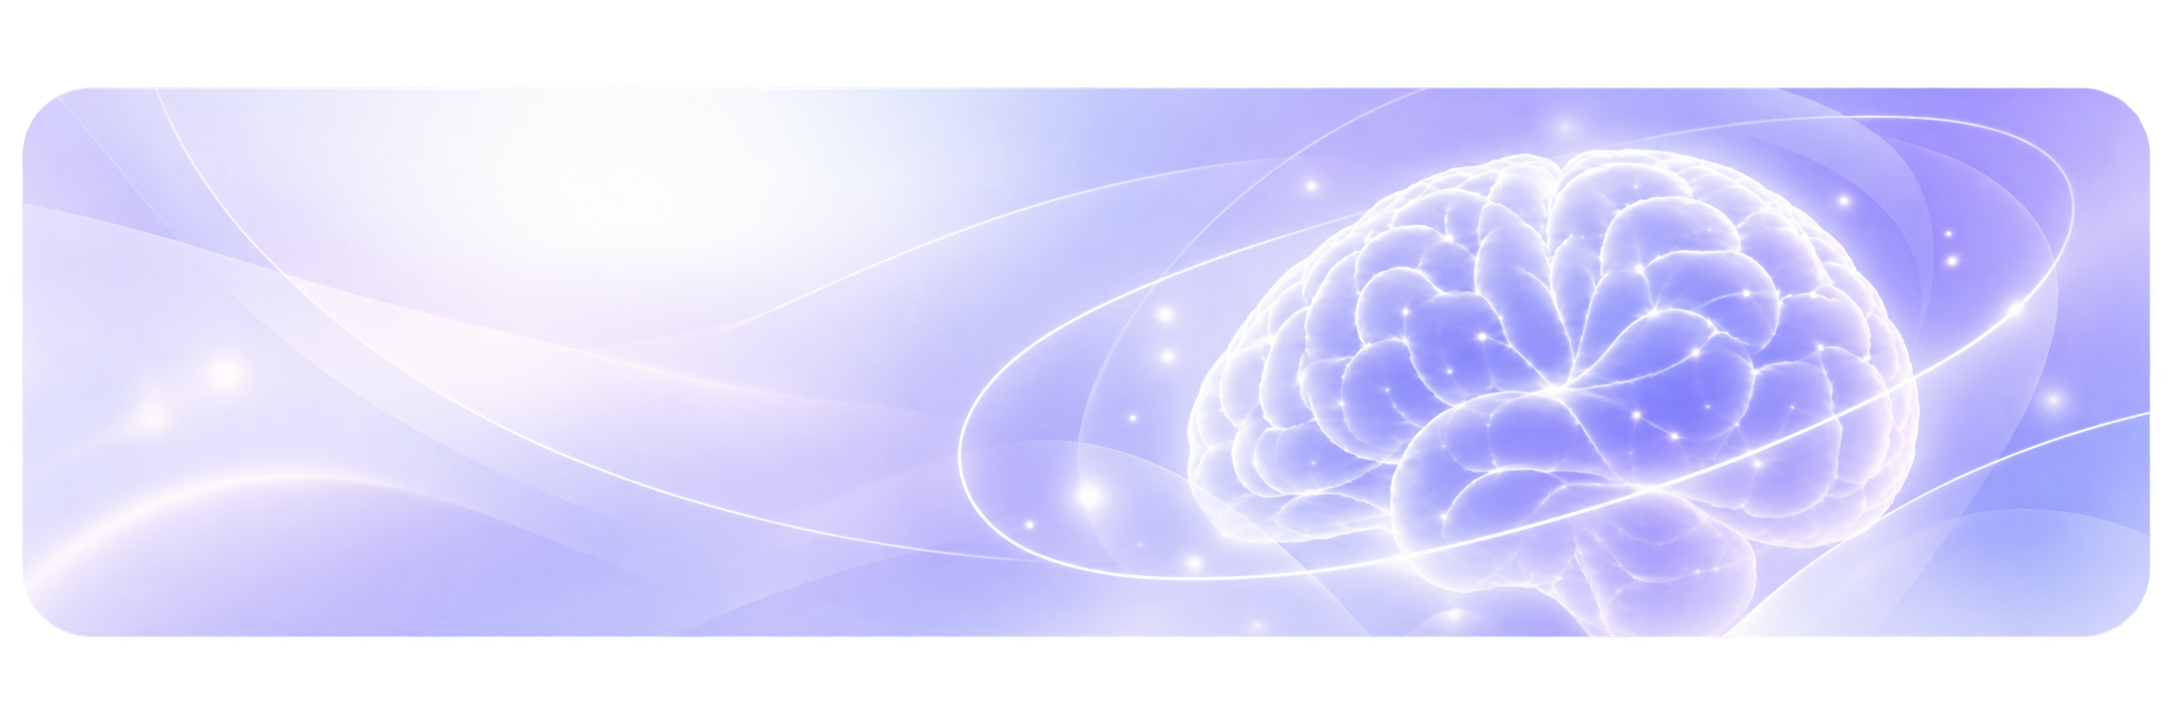
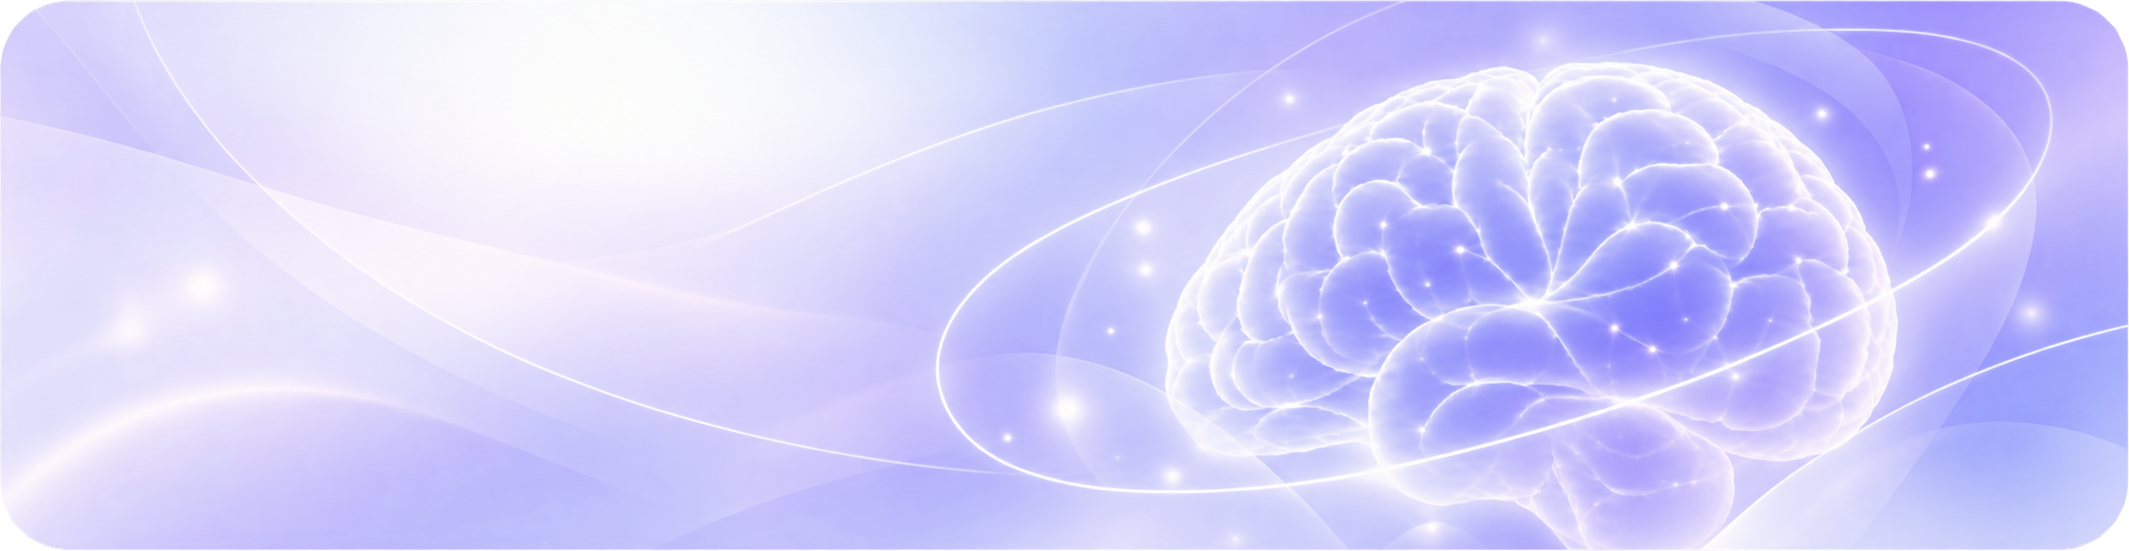
spreelo-144.218-GROW-BRAIN-STUDIO-POLISH

diff --git a/app/styles/145-v144-218-grow-brain-studio-surface.css b/app/styles/145-v144-218-grow-brain-studio-surface.css
@@ -1,0 +1,320 @@
+/* Spreelo v144.218 — Grow Brain studio-surface polish
+   Brings Grow Brain into the same visual family as AI Innehållsstudio:
+   magic canvas, translucent glass cards, softer depth, cleaner learning panel,
+   and a hero artwork that reaches the full rounded edge. */
+
+/* Canvas ------------------------------------------------------------------ */
+html body .content.spreelo-content:has(.grow-v215-page){
+  position:relative!important;
+  overflow-x:hidden!important;
+  background-color:#f5f7fb!important;
+  background-image:none!important;
+}
+html body .grow-v215-page{
+  position:relative!important;
+  isolation:isolate!important;
+  background:transparent!important;
+}
+html body .grow-v215-page::before{
+  content:"";
+  position:absolute;
+  z-index:-2;
+  top:-34px;
+  left:50%;
+  width:100vw;
+  min-width:100vw;
+  height:1180px;
+  transform:translateX(-50%);
+  pointer-events:none;
+  background:
+    linear-gradient(180deg,rgba(245,247,251,.02) 0%,rgba(245,247,251,.10) 66%,#f5f7fb 100%),
+    url('/backgrounds/spreelo-background-v97.png') center top / cover no-repeat;
+  opacity:.96;
+}
+html body .grow-v215-page::after{
+  content:"";
+  position:absolute;
+  z-index:-1;
+  top:720px;
+  left:50%;
+  width:100vw;
+  height:780px;
+  transform:translateX(-50%);
+  pointer-events:none;
+  background:
+    radial-gradient(circle at 83% 14%,rgba(129,99,230,.075),transparent 30%),
+    radial-gradient(circle at 14% 34%,rgba(255,143,99,.075),transparent 31%),
+    linear-gradient(180deg,rgba(245,247,251,0),#f5f7fb 72%);
+}
+
+/* Hero -------------------------------------------------------------------- */
+html body .grow-v216-hero{
+  overflow:hidden!important;
+  border:1px solid rgba(190,203,224,.44)!important;
+  border-radius:24px!important;
+  background-color:#f3f0ff!important;
+  background-image:
+    linear-gradient(90deg,rgba(255,255,255,.34) 0%,rgba(255,255,255,.10) 46%,rgba(255,255,255,0) 68%),
+    url('/grow-brain/grow-brain-hero-bg.png')!important;
+  background-repeat:no-repeat,no-repeat!important;
+  background-position:center,center!important;
+  background-size:100% 100%,cover!important;
+  background-origin:border-box!important;
+  background-clip:border-box!important;
+  box-shadow:0 18px 42px rgba(35,50,79,.075),inset 0 1px 0 rgba(255,255,255,.72)!important;
+}
+html body .grow-v216-hero .grow-v215-hero-copy{
+  text-shadow:0 1px 0 rgba(255,255,255,.32);
+}
+html body .grow-v216-hero-status{
+  border:1px solid rgba(255,255,255,.72)!important;
+  background:linear-gradient(145deg,rgba(255,255,255,.78),rgba(255,255,255,.57))!important;
+  -webkit-backdrop-filter:blur(18px) saturate(122%)!important;
+  backdrop-filter:blur(18px) saturate(122%)!important;
+  box-shadow:0 14px 34px rgba(55,47,104,.12),inset 0 1px 0 rgba(255,255,255,.86)!important;
+}
+html body .grow-v215-brand-chip,
+html body .grow-v216-last-update{
+  border-color:rgba(190,203,224,.52)!important;
+  background:rgba(255,255,255,.66)!important;
+  -webkit-backdrop-filter:blur(12px)!important;
+  backdrop-filter:blur(12px)!important;
+}
+
+/* Filters ----------------------------------------------------------------- */
+html body .grow-v215-range-tabs,
+html body .grow-v215-platform-filter{
+  border:1px solid rgba(190,203,224,.50)!important;
+  background:linear-gradient(145deg,rgba(255,255,255,.76),rgba(255,255,255,.54))!important;
+  box-shadow:0 10px 24px rgba(35,50,79,.06),inset 0 1px 0 rgba(255,255,255,.86)!important;
+  -webkit-backdrop-filter:blur(16px) saturate(116%)!important;
+  backdrop-filter:blur(16px) saturate(116%)!important;
+}
+html body .grow-v215-range-tabs button.active,
+html body .grow-v215-chart-toggle button.active{
+  background:linear-gradient(135deg,#8a67ef,#6748d2)!important;
+  color:#fff!important;
+  box-shadow:0 7px 16px rgba(103,72,210,.22)!important;
+}
+
+/* Shared card language ---------------------------------------------------- */
+html body .grow-v215-metric-card,
+html body .grow-v215-panel,
+html body .grow-v215-channel-card,
+html body .grow-v216-top-card{
+  border:1px solid rgba(190,203,224,.48)!important;
+  background:linear-gradient(145deg,rgba(255,255,255,.72),rgba(255,255,255,.48))!important;
+  box-shadow:0 14px 34px rgba(35,50,79,.07),inset 0 1px 0 rgba(255,255,255,.84)!important;
+  -webkit-backdrop-filter:blur(19px) saturate(118%)!important;
+  backdrop-filter:blur(19px) saturate(118%)!important;
+}
+html body .grow-v215-metric-card{
+  min-height:92px;
+  border-radius:20px!important;
+  padding:16px 15px!important;
+}
+html body .grow-v215-metric-icon{
+  width:39px!important;
+  height:39px!important;
+  border-radius:13px!important;
+  border:1px solid rgba(255,255,255,.72)!important;
+  background:linear-gradient(145deg,rgba(245,241,255,.96),rgba(234,226,255,.80))!important;
+  box-shadow:0 7px 18px rgba(103,72,210,.10),inset 0 1px 0 rgba(255,255,255,.92)!important;
+}
+html body .grow-v215-panel{
+  border-radius:22px!important;
+}
+html body .grow-v215-trend-panel,
+html body .grow-v215-learning-panel,
+html body .grow-v215-channels-panel,
+html body .grow-v215-top-posts,
+html body .grow-v215-system-card{
+  background:linear-gradient(145deg,rgba(255,255,255,.76),rgba(255,255,255,.50))!important;
+}
+html body .grow-v215-panel-head h2{
+  color:#111b31!important;
+  font-weight:850!important;
+  letter-spacing:-.015em!important;
+}
+html body .grow-v215-panel-head p{
+  color:#64728a!important;
+}
+html body .grow-v215-section-kicker{
+  color:#6849cf!important;
+  font-weight:900!important;
+}
+
+/* Empty chart feels like part of the dashboard, not a blank admin box. */
+html body .grow-v215-chart-empty{
+  position:relative;
+  overflow:hidden;
+  border:1px dashed rgba(154,133,211,.28)!important;
+  background:
+    radial-gradient(circle at 50% 46%,rgba(117,82,216,.07),transparent 27%),
+    linear-gradient(145deg,rgba(255,255,255,.42),rgba(248,246,255,.34))!important;
+}
+html body .grow-v215-chart-empty::before{
+  content:"";
+  position:absolute;
+  inset:0;
+  pointer-events:none;
+  background-image:linear-gradient(rgba(122,105,170,.045) 1px,transparent 1px);
+  background-size:100% 48px;
+  opacity:.7;
+}
+html body .grow-v215-chart-empty>*{position:relative;z-index:1}
+html body .grow-v215-chart-empty>a{
+  padding:8px 12px;
+  border-radius:999px;
+  background:rgba(239,234,255,.78);
+  box-shadow:inset 0 0 0 1px rgba(104,73,207,.08);
+}
+
+/* Learning panel ---------------------------------------------------------- */
+html body .grow-v215-learning-panel{
+  user-select:none;
+  -webkit-user-select:none;
+}
+html body .grow-v215-learning-panel ::selection{
+  color:inherit;
+  background:rgba(116,82,214,.14);
+}
+html body .grow-v216-learning-progress{
+  padding:14px 15px!important;
+  border:1px solid rgba(199,188,232,.52)!important;
+  border-radius:16px!important;
+  background:linear-gradient(145deg,rgba(248,245,255,.82),rgba(255,255,255,.60))!important;
+  box-shadow:inset 0 1px 0 rgba(255,255,255,.82)!important;
+}
+html body .grow-v215-progress-track{
+  height:8px!important;
+  margin:10px 0 9px!important;
+  border-radius:999px!important;
+  background:rgba(226,219,244,.82)!important;
+  box-shadow:inset 0 1px 2px rgba(73,55,125,.06)!important;
+}
+html body .grow-v215-progress-track span{
+  border-radius:999px!important;
+  background:linear-gradient(90deg,#a482ff 0%,#835fe9 50%,#6746cc 100%)!important;
+  box-shadow:0 4px 12px rgba(103,70,204,.20)!important;
+}
+html body .grow-v216-learning-meta{
+  gap:4px!important;
+}
+html body .grow-v216-learning-meta small{
+  color:#7b8498!important;
+}
+html body .grow-v215-signal-list{gap:8px!important}
+html body .grow-v215-signal-row{
+  position:relative;
+  overflow:hidden;
+  min-height:58px;
+  padding:10px 11px!important;
+  border:1px solid rgba(202,211,226,.58)!important;
+  border-radius:14px!important;
+  background:rgba(255,255,255,.58)!important;
+  box-shadow:0 5px 14px rgba(35,50,79,.035),inset 0 1px 0 rgba(255,255,255,.84)!important;
+}
+html body .grow-v215-signal-row::after{
+  content:"";
+  position:absolute;
+  right:0;
+  bottom:0;
+  left:47px;
+  height:3px;
+  border-radius:999px 0 0 999px;
+  background:linear-gradient(90deg,rgba(139,104,238,.68),rgba(104,73,207,.22));
+}
+html body .grow-v215-signal-mark{
+  width:33px!important;
+  height:33px!important;
+  border-radius:11px!important;
+}
+html body .grow-v215-learning-note{
+  margin-top:12px!important;
+  padding:10px 11px!important;
+  border-radius:12px!important;
+  background:rgba(247,244,255,.68)!important;
+  color:#778197!important;
+}
+
+/* Channels --------------------------------------------------------------- */
+html body .grow-v215-channel-grid{gap:12px!important}
+html body .grow-v215-channel-card{
+  padding:14px 14px 12px!important;
+  border-radius:17px!important;
+  background:linear-gradient(145deg,rgba(255,255,255,.69),rgba(255,255,255,.44))!important;
+}
+html body .grow-v215-channel-card::after{
+  width:92px!important;
+  height:92px!important;
+  right:-38px!important;
+  top:-42px!important;
+  background:radial-gradient(circle,rgba(117,82,216,.07),transparent 68%)!important;
+}
+html body .grow-v215-channel-metrics{
+  margin-top:12px!important;
+  padding:11px 0!important;
+  border-color:rgba(193,204,222,.43)!important;
+}
+html body .grow-v215-channel-metrics div{border-color:rgba(193,204,222,.43)!important}
+html body .grow-v215-status-pill{
+  border:1px solid rgba(197,205,220,.52)!important;
+  background:rgba(245,247,250,.70)!important;
+}
+html body .grow-v215-status-pill.healthy{border-color:rgba(143,201,166,.48)!important;background:rgba(233,248,239,.78)!important}
+html body .grow-v215-status-pill.pending{border-color:rgba(221,193,128,.42)!important;background:rgba(253,246,228,.78)!important}
+html body .grow-v215-status-pill.warning{border-color:rgba(224,156,145,.42)!important;background:rgba(255,239,236,.78)!important}
+html body .grow-v215-status-pill.collecting{border-color:rgba(168,150,223,.48)!important;background:rgba(240,235,255,.78)!important}
+
+/* Bottom section ---------------------------------------------------------- */
+html body .grow-v215-list-empty{
+  min-height:120px;
+  display:flex;
+  align-items:center;
+  gap:10px;
+  padding:18px!important;
+  border:1px dashed rgba(154,133,211,.28)!important;
+  border-radius:15px!important;
+  background:linear-gradient(145deg,rgba(255,255,255,.42),rgba(248,246,255,.34))!important;
+}
+html body .grow-v215-health-score{
+  border:1px solid rgba(199,188,232,.52)!important;
+  border-radius:16px!important;
+  background:linear-gradient(145deg,rgba(248,245,255,.82),rgba(255,255,255,.58))!important;
+  box-shadow:inset 0 1px 0 rgba(255,255,255,.82)!important;
+}
+html body .grow-v215-health-list{
+  overflow:hidden;
+  border:1px solid rgba(202,211,226,.55)!important;
+  border-radius:14px!important;
+  background:rgba(255,255,255,.50)!important;
+}
+html body .grow-v215-system-note{
+  border:1px solid rgba(210,204,229,.44)!important;
+  border-radius:12px!important;
+  background:rgba(247,244,255,.66)!important;
+}
+
+/* Small screens ----------------------------------------------------------- */
+@media(max-width:760px){
+  html body .grow-v215-page::before{
+    top:-16px;
+    height:980px;
+    background:
+      linear-gradient(180deg,rgba(245,247,251,.02),rgba(245,247,251,.18) 70%,#f5f7fb 100%),
+      url('/backgrounds/spreelo-background-v97.png') center top / auto 780px no-repeat;
+  }
+  html body .grow-v216-hero{
+    border-radius:20px!important;
+    background-size:auto 100%,cover!important;
+    background-position:center,64% center!important;
+  }
+  html body .grow-v215-metric-card,
+  html body .grow-v215-panel,
+  html body .grow-v215-channel-card,
+  html body .grow-v216-top-card{
+    -webkit-backdrop-filter:blur(14px) saturate(114%)!important;
+    backdrop-filter:blur(14px) saturate(114%)!important;
+  }
+}

diff --git a/app/globals.css b/app/globals.css
@@ -183,3 +183,5 @@
 @import "./styles/143-v144-216-grow-brain-premium.css";
 
 @import "./styles/144-v144-217-grow-brain-hero-typography.css";
+
+@import "./styles/145-v144-218-grow-brain-studio-surface.css";

diff --git a/PATCH_V144_218.md b/PATCH_V144_218.md
@@ -1,0 +1,10 @@
+# Spreelo v144.218 — Grow Brain studio-surface polish
+
+- Grow Brain canvas now uses the same subtle Spreelo magic-background family as AI Innehållsstudio instead of the flat beige surface.
+- Main dashboard panels, KPI cards and channel cards now use the glass-card language from AI Innehållsstudio.
+- Grow Brain hero artwork was cropped to remove transparent padding and now fills the complete rounded hero container.
+- Hero background is rendered edge-to-edge while preserving the existing live text/status overlay.
+- Customer-learning panel was visually rebuilt with a softer Spreelo-purple progress treatment.
+- Text selection is disabled inside the learning summary to prevent browser-blue selection bars from appearing there.
+- Channel cards, empty chart state, top-content empty state and data-quality panel were polished to match the rest of the product.
+- No database migration required.

diff --git a/DEPLOY_V144_218.md b/DEPLOY_V144_218.md
@@ -1,0 +1,6 @@
+# Deploy v144.218
+
+1. Deploy this zip normally.
+2. No Supabase SQL is required.
+3. Hard-refresh the Grow Brain page after deploy so the new CSS and cropped hero asset are loaded.
+4. Verify desktop and mobile Grow Brain layouts.
